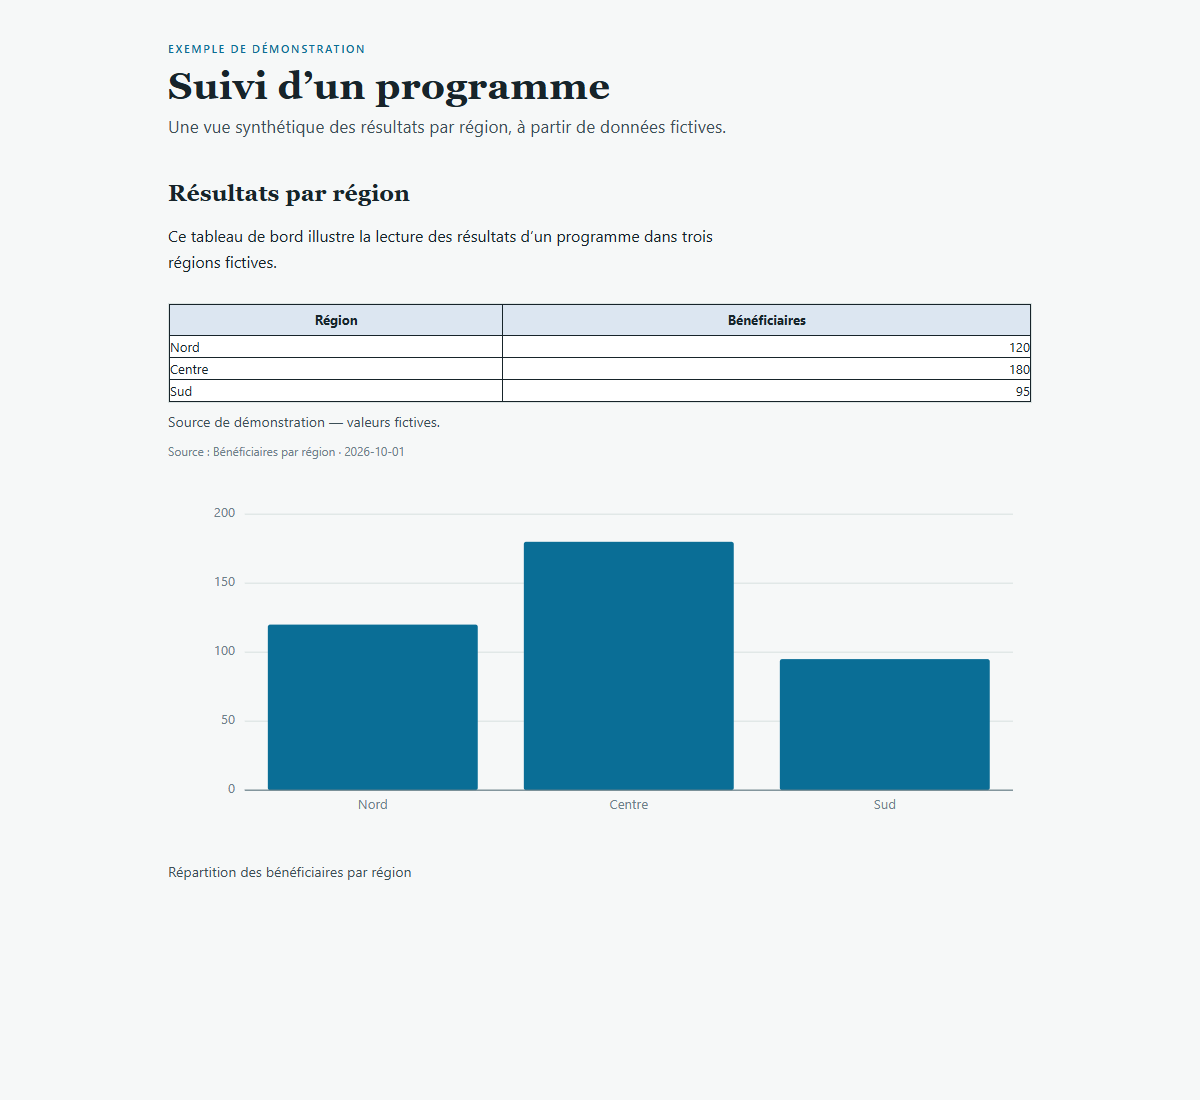
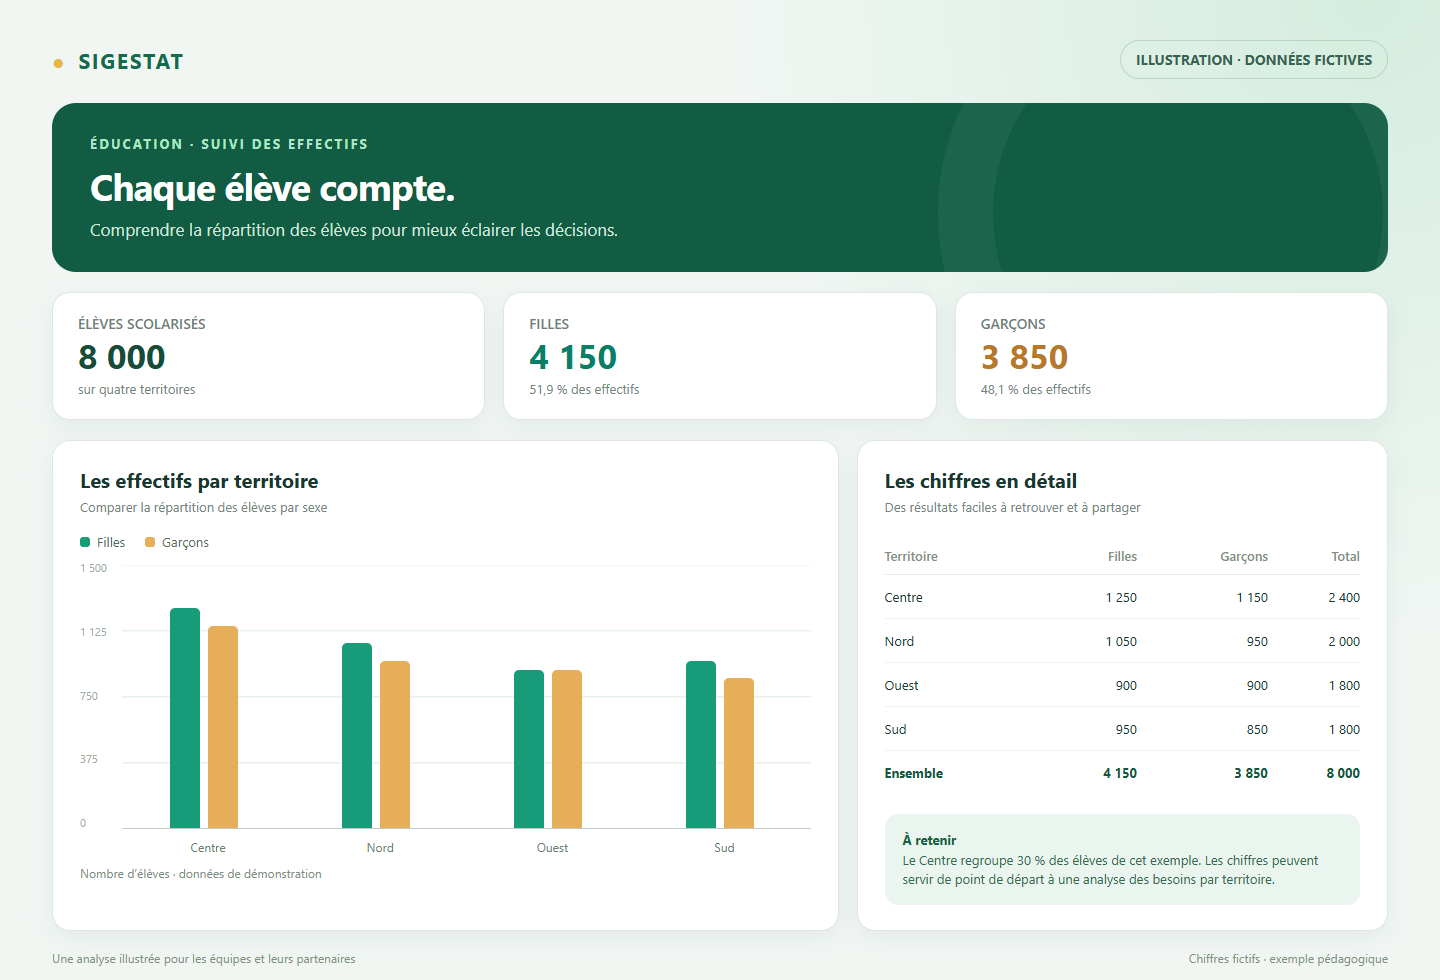
docs: highlight multi-axis tables and educational analysis

diff --git a/images/analyse-education-illustration.html b/images/analyse-education-illustration.html
@@ -1,0 +1,11 @@
+<!doctype html>
+<html lang="fr"><head><meta charset="utf-8"><style>
+*{box-sizing:border-box} body{margin:0;background:#eff5f2;font-family:"Segoe UI",Arial,sans-serif;color:#18372f}
+.canvas{width:1440px;height:980px;padding:40px 52px;background:radial-gradient(circle at 95% 0%,#d4eddf,transparent 38%),#f1f6f3}
+.top{display:flex;align-items:center;justify-content:space-between;margin-bottom:24px}.brand{font-size:21px;font-weight:750;letter-spacing:.08em;color:#136b4c}.brand:before{content:'●';color:#e4b844;margin-right:12px}.tag{padding:9px 15px;border:1px solid #b8d5c4;border-radius:30px;color:#376450;font-size:14px;font-weight:650}
+.hero{background:#125c43;border-radius:24px;padding:32px 38px;position:relative;overflow:hidden;color:#fff}.hero:after{content:'';position:absolute;right:-50px;top:-140px;width:390px;height:390px;border-radius:50%;border:55px solid #ffffff0c}.eyebrow{font-size:13px;font-weight:700;letter-spacing:.17em;color:#a9e8c2}.hero h1{font-size:37px;margin:9px 0 8px;letter-spacing:-.025em}.hero p{font-size:17px;margin:0;color:#d4e9dd}
+.kpis{display:grid;grid-template-columns:repeat(3,1fr);gap:18px;margin-top:20px}.kpi,.card{background:#fff;border:1px solid #dce8e1;border-radius:18px;box-shadow:0 8px 24px #143e2910}.kpi{padding:21px 25px}.kpi .label{font-size:14px;color:#6c8075;font-weight:600}.kpi strong{display:block;font-size:34px;line-height:1.3;color:#164c38}.kpi small{font-size:13px;color:#71877a}.kpi:nth-child(2) strong{color:#087f67}.kpi:nth-child(3) strong{color:#b87829}
+.grid{display:grid;grid-template-columns:1.48fr 1fr;gap:18px;margin-top:20px}.card{padding:25px 27px}.card h2{font-size:20px;margin:0 0 5px}.sub{font-size:13px;color:#72867c;margin:0}.legend{display:flex;gap:20px;margin-top:18px;font-size:13px;color:#536c5f}.dot{display:inline-block;width:10px;height:10px;border-radius:3px;margin-right:7px}.f{background:#189b79}.g{background:#e6ae58}
+.chart{position:relative;margin:15px 0 0 42px;height:264px;border-bottom:1px solid #bfcfc5;background:repeating-linear-gradient(to top,transparent 0,transparent 64px,#e8f0ea 65px,#e8f0ea 66px);display:flex;justify-content:space-around;align-items:flex-end}.axis{position:absolute;left:-42px;top:-5px;height:270px;display:flex;flex-direction:column;justify-content:space-between;color:#9aac9f;font-size:11px}.group{width:76px;display:flex;align-items:flex-end;gap:8px;position:relative}.bar{width:30px;border-radius:5px 5px 0 0}.group span{position:absolute;bottom:-27px;left:-12px;width:100px;text-align:center;color:#667c6e;font-size:12px}.chart-label{margin-top:36px;font-size:12px;color:#7a8e81}
+.insight{margin-top:20px;padding:16px 18px;border-radius:13px;background:#e9f5ee;color:#326a4d;font-size:13px;line-height:1.5}.insight b{color:#176340}.table{width:100%;border-collapse:collapse;margin-top:22px;font-size:13px}.table th{text-align:right;color:#7d9083;font-weight:600;border-bottom:1px solid #e4ece6;padding:10px 0}.table td{padding:13px 0;border-bottom:1px solid #eef3ef;text-align:right}.table th:first-child,.table td:first-child{text-align:left}.table tfoot td{font-weight:700;color:#17563b;border:0}.foot{display:flex;justify-content:space-between;margin-top:19px;color:#7c9184;font-size:12px}
+</style></head><body><div class="canvas"><div class="top"><div class="brand">SIGESTAT</div><div class="tag">ILLUSTRATION · DONNÉES FICTIVES</div></div><div class="hero"><div class="eyebrow">ÉDUCATION · SUIVI DES EFFECTIFS</div><h1>Chaque élève compte.</h1><p>Comprendre la répartition des élèves pour mieux éclairer les décisions.</p></div><div class="kpis"><div class="kpi"><div class="label">ÉLÈVES SCOLARISÉS</div><strong>8 000</strong><small>sur quatre territoires</small></div><div class="kpi"><div class="label">FILLES</div><strong>4 150</strong><small>51,9 % des effectifs</small></div><div class="kpi"><div class="label">GARÇONS</div><strong>3 850</strong><small>48,1 % des effectifs</small></div></div><div class="grid"><div class="card"><h2>Les effectifs par territoire</h2><p class="sub">Comparer la répartition des élèves par sexe</p><div class="legend"><span><i class="dot f"></i>Filles</span><span><i class="dot g"></i>Garçons</span></div><div class="chart"><div class="axis"><span>1 500</span><span>1 125</span><span>750</span><span>375</span><span>0</span></div><div class="group"><div class="bar f" style="height:220px"></div><div class="bar g" style="height:202px"></div><span>Centre</span></div><div class="group"><div class="bar f" style="height:185px"></div><div class="bar g" style="height:167px"></div><span>Nord</span></div><div class="group"><div class="bar f" style="height:158px"></div><div class="bar g" style="height:158px"></div><span>Ouest</span></div><div class="group"><div class="bar f" style="height:167px"></div><div class="bar g" style="height:150px"></div><span>Sud</span></div></div><div class="chart-label">Nombre d’élèves · données de démonstration</div></div><div class="card"><h2>Les chiffres en détail</h2><p class="sub">Des résultats faciles à retrouver et à partager</p><table class="table"><thead><tr><th>Territoire</th><th>Filles</th><th>Garçons</th><th>Total</th></tr></thead><tbody><tr><td>Centre</td><td>1 250</td><td>1 150</td><td>2 400</td></tr><tr><td>Nord</td><td>1 050</td><td>950</td><td>2 000</td></tr><tr><td>Ouest</td><td>900</td><td>900</td><td>1 800</td></tr><tr><td>Sud</td><td>950</td><td>850</td><td>1 800</td></tr></tbody><tfoot><tr><td>Ensemble</td><td>4 150</td><td>3 850</td><td>8 000</td></tr></tfoot></table><div class="insight"><b>À retenir</b><br>Le Centre regroupe 30 % des élèves de cet exemple. Les chiffres peuvent servir de point de départ à une analyse des besoins par territoire.</div></div></div><div class="foot"><span>Une analyse illustrée pour les équipes et leurs partenaires</span><span>Chiffres fictifs · exemple pédagogique</span></div></div></body></html>

diff --git a/README.md b/README.md
@@ -59,6 +59,8 @@ Les projets peuvent être copiés, importés ou exportés pour réutiliser un tr
 
 Le concepteur de tableaux permet de définir une présentation, de choisir les données à utiliser et d’organiser les lignes et les colonnes. Il prend en charge les regroupements, les totaux, les formules, les filtres, les tris et les correspondances entre les libellés et les données.
 
+Il peut croiser **plusieurs axes d’analyse** dans un même tableau : par exemple, les effectifs d’élèves par région, année et sexe. À partir de la configuration et des correspondances définies, SIGESTAT compile automatiquement les requêtes SQL nécessaires pour récupérer et agréger les données de la source.
+
 On peut prévisualiser le résultat, ajuster son style et l’exporter, notamment vers **Excel** ou **Word**. Une configuration enregistrée peut être réutilisée et actualisée lorsque les données changent, sans recommencer la mise en forme.
 
 ![Interface de correspondance entre les libellés du tableau et les données](images/correspondances.png)
@@ -68,6 +70,8 @@ On peut prévisualiser le résultat, ajuster son style et l’exporter, notammen
 ### Décliner un tableau pour plusieurs besoins
 
 Une équipe peut partir d’un **tableau de référence** et créer une famille de tableaux pour les années, régions, programmes ou autres valeurs qu’elle choisit. Elle sélectionne les combinaisons utiles avant de lancer la génération, recherche celles qui l’intéressent et peut adapter les filtres de certaines variantes.
+
+Cette déclinaison fait **gagner du temps** : au lieu de recréer et de mettre en forme chaque tableau séparément, l’équipe réutilise le modèle et génère les variantes dont elle a besoin.
 
 Par exemple, un tableau conçu pour suivre les effectifs peut être décliné par année et par territoire, puis regroupé avec ses variantes dans le projet. Les choix d’héritage aident à mettre à jour une famille tout en conservant les adaptations voulues sur certains tableaux.
 
@@ -106,9 +110,9 @@ Les **analyses rédigées** sont enregistrées dans le projet, à côté des tab
 
 Les graphiques sont construits à partir des tableaux cités dans l’analyse : le lecteur peut retrouver les chiffres qu’ils illustrent et consulter les détails au survol dans l’application. Le document conserve les tableaux tels qu’ils étaient lors de son enregistrement : ses chiffres ne se mettent pas automatiquement à jour. SIGESTAT signale si la configuration d’un tableau cité a changé ou si ce tableau a disparu ; une simple actualisation des données ne déclenche pas nécessairement cette alerte. L’équipe doit donc vérifier les dates et revoir l’analyse lorsque ses données évoluent.
 
-![Exemple d’analyse présentant un tableau et un graphique de suivi par région](images/analyse-demonstration.png)
+![Exemple fictif d’analyse des effectifs scolaires par région et par sexe](images/analyse-demonstration.png)
 
-*Rendu de démonstration produit par le moteur d’analyse SIGESTAT, avec des valeurs fictives.*
+*Illustration d’un exemple d’analyse dans l’éducation. Les données sont fictives ; la mise en page illustre les possibilités de l’application.*
 
 ```mermaid
 flowchart LR
